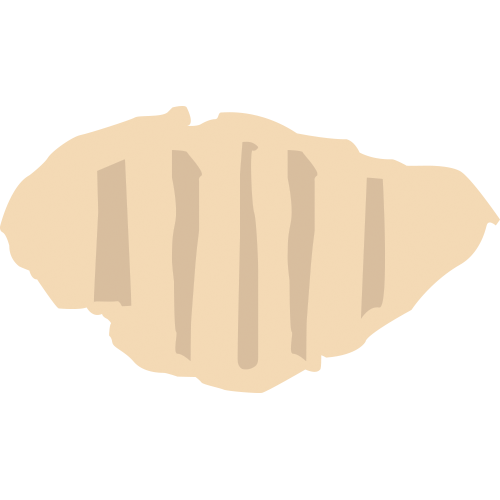
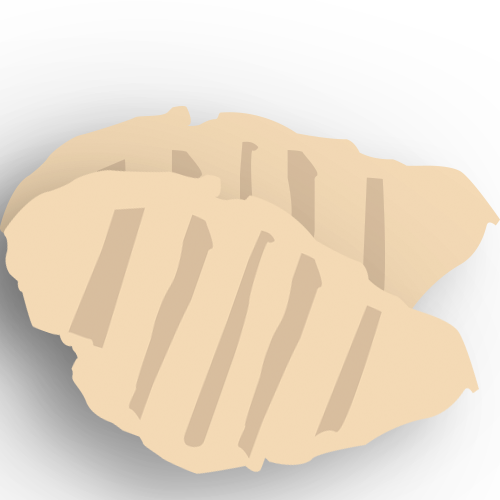
final commit

diff --git a/app/assets/javascripts/application.js b/app/assets/javascripts/application.js
@@ -72,11 +72,7 @@ $( document ).ready(function() {
             $('#inner-shield-3').animate( { left: '1400' }, 1000);
       });
 
-    
-
-
-
-
+  
     //store  user options
       window.choices = []
       $(document).on('click', '.choice', function(){
@@ -102,11 +98,10 @@ $( document ).ready(function() {
         //$("<img class='animation ' " + sanitizeChoice(choice) + " src='" + imgUrl + "'>").appendTo('#content-wrapper');
         $("<img class='animation " + 'a' + sanitizeChoice(choice) + " ' src=' " + imgUrl + " '>").appendTo('#content-wrapper');
         TweenMax.to(".asandwich", 3.5, {x:600, rotation:360, scale:.9});
-        TweenMax.to(".awhite-bread", 2, {top:230});
+        TweenMax.to(".awhite-bread, .awheat-bread,.arye-bread", 2, {top:230});
         TweenMax.to(".agrilled-chicken, .asmoked-salmon, .aeggs, .asalami", 2, {top:300, left:500, rotation:68, opacity:.8});
-        TweenMax.to(".atomato, .aavocado, .aswiss-cheese ", 3, {y:300, rotation:360, opacity:.8});
-        TweenMax.to(".alettuce, .aamerican-cheese, .aonions", 3, {top:300, opacity:1});
-        TweenMax.to(".aketchup", 3, {y:300, rotation:360, opacity:1});
+        TweenMax.to(".atomato, .aavocado, .aswiss-cheese, .alettuce, .aamerican-cheese, .aonions" , 3, {y:340, rotation:360, opacity:.8});
+        TweenMax.to(".atomato, .aavocado, .aswiss-cheese, .alettuce, .aamerican-cheese, .aonions" , 3, {y:305, rotation:90, opacity:.8});
 
       })
 
@@ -123,10 +118,10 @@ $( document ).ready(function() {
         $( ".sandwich" ).click(function() {
           setTimeout(function(){ 
             $('.sandwich-base').show();
-            $('#inner-shield-2').animate( { left: '-1440' }, 3000);
-            $('#inner-shield-3').animate( { left: '0' }, 3000);
-            $('#inner-shield-4').animate( { left: '1440' }, 3000);
-          }, 4000); 
+            $('#inner-shield-2').animate( { left: '-1440' }, 2000);
+            $('#inner-shield-3').animate( { left: '0' }, 2000);
+            $('#inner-shield-4').animate( { left: '1440' }, 2000);
+          }, 3000); 
 
 
             for (var option of sandwichBaseOptions){
@@ -386,11 +381,10 @@ $( document ).ready(function() {
             document.getElementById("review-protein").innerHTML = choices[2];
             document.getElementById("review-topping").innerHTML = choices[3];
         });    
-
         $( ".pizza-condiment" ).click(function() {
             $('#inner-shield-6').animate( { left: '-1400' }, 1000);
             $('#inner-shield-7').animate( { left: '0' }, 1000);
-
+            TweenMax.to(".white-bread", 1, {top: 230, opacity:.9, scale:1.5});
             document.getElementById("review-food").innerHTML = choices[0];
             document.getElementById("review-base").innerHTML = choices[1];
             document.getElementById("review-protein").innerHTML = choices[2];

diff --git a/app/assets/stylesheets/pages/animated.scss b/app/assets/stylesheets/pages/animated.scss
@@ -20,6 +20,22 @@ z-index: 1;
       z-index: 2;
    }
 
+      .awheat-bread {
+      width: 400px;
+      position: absolute;
+      top:-200px;
+      left: 450px;
+      z-index: 2;
+   }
+
+      .arye-bread {
+      width: 400px;
+      position: absolute;
+      top:-200px;
+      left: 450px;
+      z-index: 2;
+   }   
+
    .agrilled-chicken{
       position: absolute;
       width: 300px;
@@ -109,7 +125,27 @@ z-index: 1;
    opacity: 0;
    position: absolute;
    z-index: 20;
-   width: 210px;
-   left: 515px;
+   width: 200px;
+   left: 530px;
+   top: 350px;
 }
+
+.amustard{
+   opacity: 0;
+   position: absolute;
+   z-index: 20;
+   width: 200px;
+   left: 530px;
+   top: 350px;
+}
+
+.amayonnaise{
+   opacity: 0;
+   position: absolute;
+   z-index: 20;
+   width: 200px;
+   left: 530px;
+   top: 350px;
+}
+
 

diff --git a/app/assets/stylesheets/wrapper.scss b/app/assets/stylesheets/wrapper.scss
@@ -8,6 +8,8 @@
   .header {
     background-color: $primary-color;
     height: 30%;
+    padding: 0px 30px 0px 30px; 
+    width: 100%;
     margin-top: -55px;
     box-shadow: 0 1px 3px rgba(0,0,0,0.12), 0 1px 2px rgba(0,0,0,0.24);
   }
@@ -127,7 +129,7 @@
     }
 
     .options {
-      margin-left: 2%;
+      margin-left: 15%;
     }
 }
 
@@ -136,6 +138,10 @@
   width: 1400px;
   position: absolute;
   left: 8400px;
+
+    .header {
+      height: 23.5%;
+    }
 }
 
 

diff --git a/app/assets/stylesheets/pages/type.scss b/app/assets/stylesheets/pages/type.scss
@@ -35,8 +35,22 @@
 
 
    .review-options {
+      background-image: white;
+      border: 1px #455A64 solid;
+      padding-top: -20px;
+      padding: 0px 20px 20px 20px;
+      width: 300px;
+      position: absolute;
+      top: 200px;
+      left: 900px;
+
       table{
          position: relative;
          border-bottom: 0px;
+         border-collapse:collapse
+      }
+
+         button {
+      margin-left: 70px;
       }
    }

diff --git a/app/assets/stylesheets/pages/shields.scss b/app/assets/stylesheets/pages/shields.scss
@@ -119,18 +119,3 @@
       @include span-columns (3);
    }
 }
-
-.review-options {
-      // ul {
-      // @include span-columns(12);
-      // }
-      
-      // h1{
-      //    font-size: 24px;
-      // }
-
-      // li {
-      // font-family: 'Open Sans', 'sans-serif';
-      // font-size: 24px;
-      // }
-}
